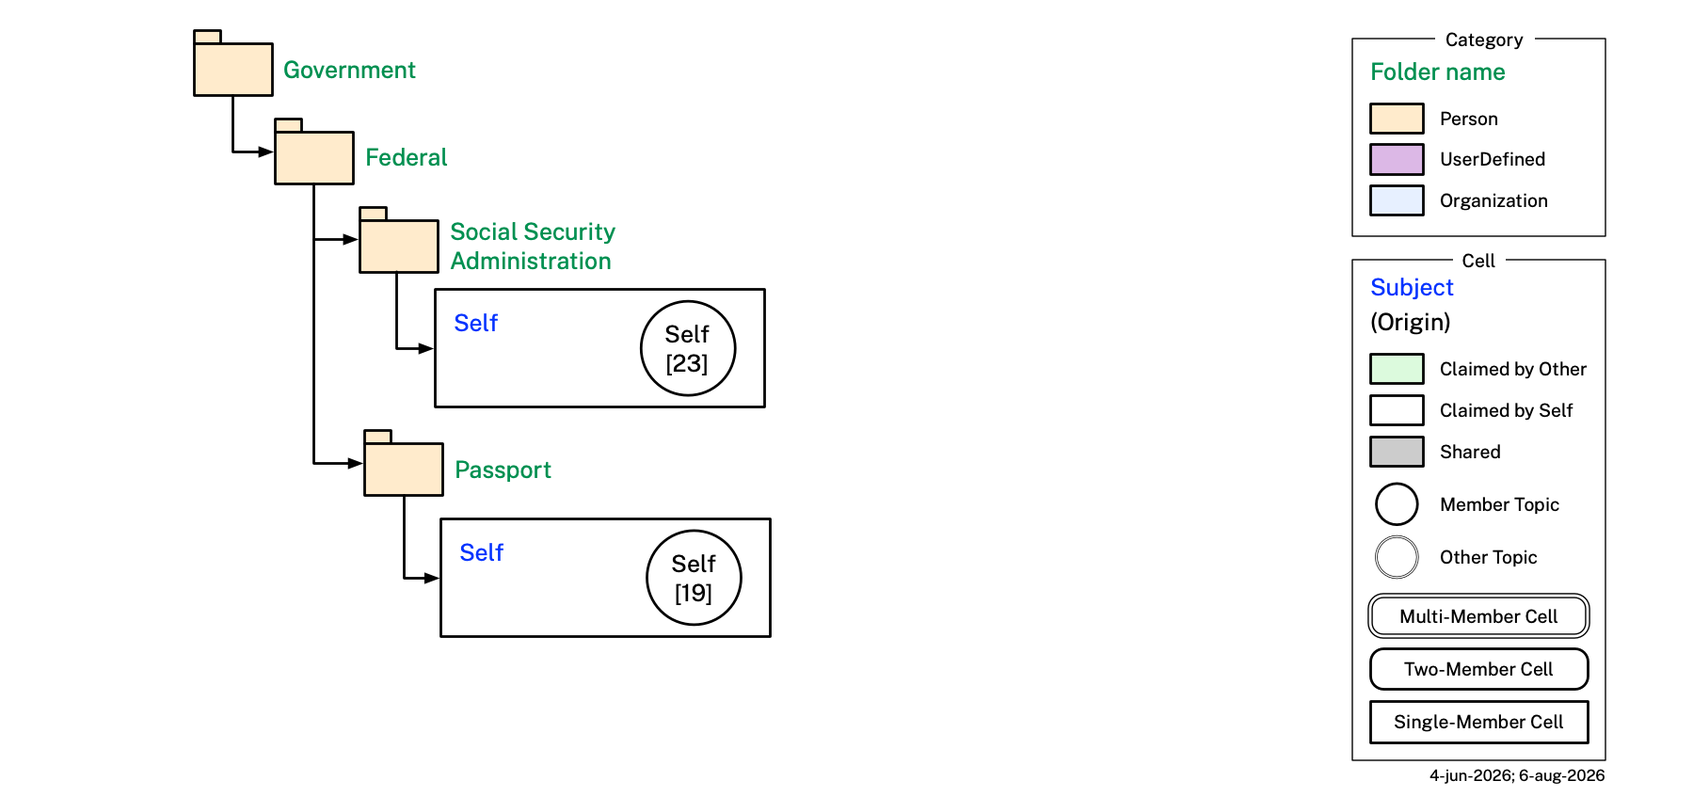
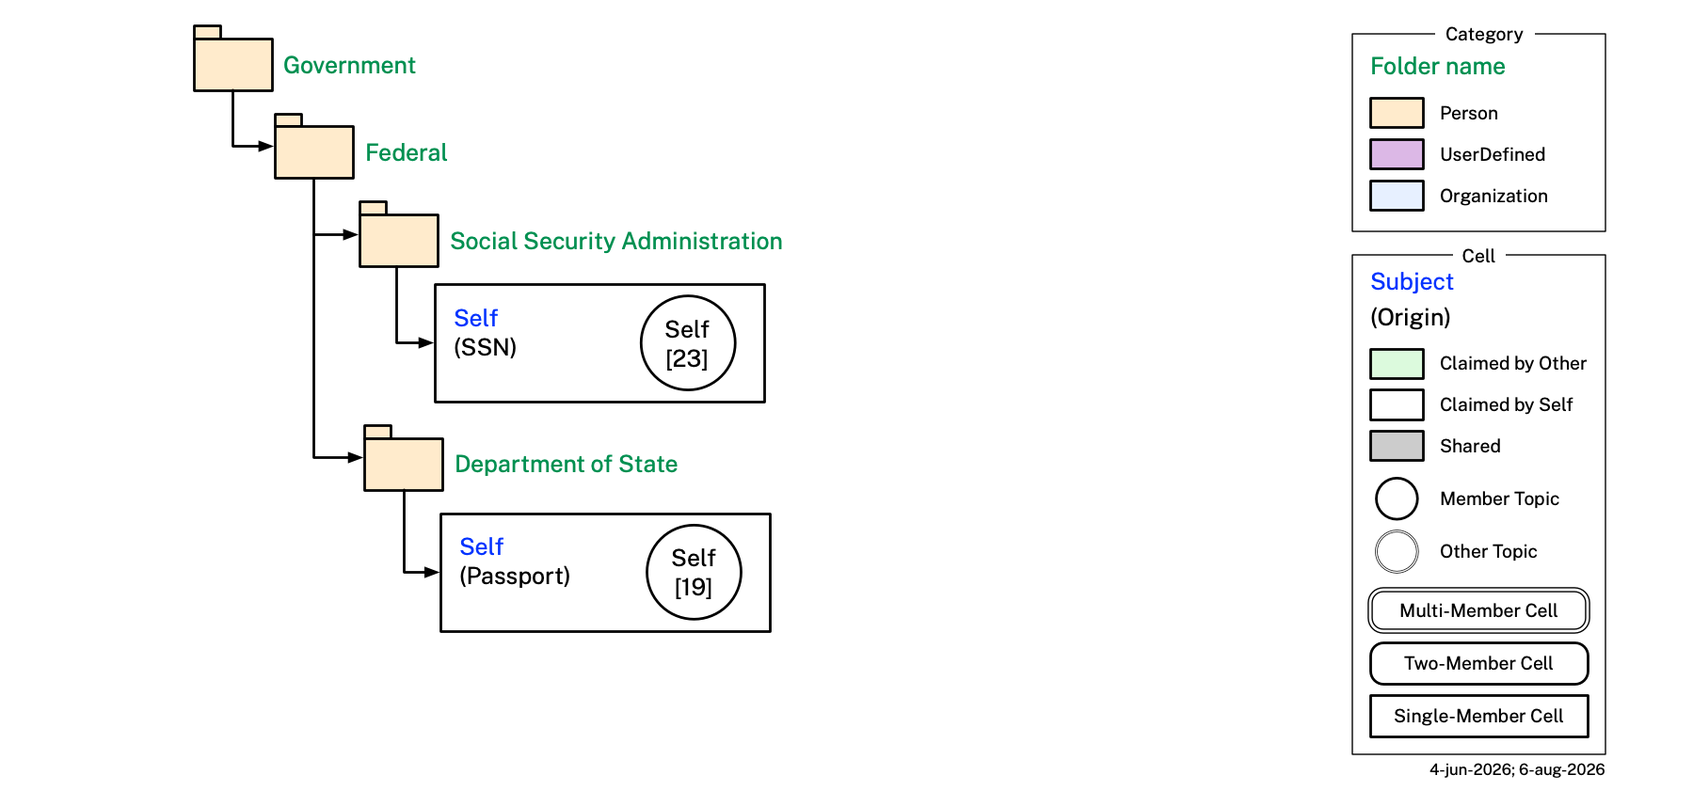
tweak

diff --git a/CLAUDE.md b/CLAUDE.md
@@ -52,14 +52,14 @@ Every topic below is now an embedded section (`mia.topics` entry + `### Topic NN
 | Topic 24 — `example/Cells/Government/State/Texas Vital Records/Texas Vital Records(birth-certificate).databook.md` | Alice's Texas birth certificate — legal names, maiden name |
 | Topic 18 — `example/Cells/Government/Municipality/Paradise/Paradise(residence).databook.md` | Alice's Paradise, CA address — current residence (2025–present) |
 | Topic 13 — `example/Cells/Government/Municipality/Boston/Boston(residence).databook.md` | Alice's Boston, MA address — previous residence (2020–2025) |
-| Topic 23 — `example/Cells/Government/Federal/Social Security Administration/Social Security Administration(ssa).databook.md` | Alice's Social Security Number |
+| Topic 23 — `example/Cells/Government/Federal/Social Security Administration/Social Security Administration(ssn).databook.md` | Alice's Social Security Number |
 | Topic 12 — `example/Cells/People/Others/Bob Johnson/Bob Johnson(others).databook.md` | Alice's 1:1 topic with Bob; social network with Bob as member |
 | Topic 21 — `example/Cells/People/Immediate Family/Paula Walker/Paula Walker(immediate-family).databook.md` | Alice's family topic — social network with Paula Walker as member |
 | Topic 22 — `example/Cells/Ownership/Ownership.databook.md` | Alice's possessions — wallet, health insurance card, SSN card |
 | Topic 20 — `example/Cells/Work/Acme/Employees/Paula Walker/Paula Walker(employee).databook.md` | Alice's Acme employee topic; social network with Paula Walker |
 | Topic 10 — `example/Cells/Work/Acme/Employees/Alice Walker/Alice Walker(employee).databook.md` | Alice's business card (JSContactCard) — name, email, phone, employer, job title |
 | Topic 15 — `example/Cells/Government/State/California DMV/California DMV(drivers-license).databook.md` | Alice's California driver's license — legal name, DOB, DL#, expiry, photo |
-| Topic 19 — `example/Cells/Government/Federal/Passport/Passport.databook.md` | Alice's US passport — legal name, DOB, passport#, issue/expiry, place of birth, gender marker, photo |
+| Topic 19 — `example/Cells/Government/Federal/Department of State/Department of State(passport).databook.md` | Alice's US passport — legal name, DOB, passport#, issue/expiry, place of birth, gender marker, photo |
 | Topic 17 — `example/Cells/People/Immediate Family/Paula Walker/Health & Wellness/Health & Wellness.databook.md` | Paula's physical characteristics — height, eye color, hair color — as recorded by Alice |
 | `example/topics/under-development/paula(fl-birth-cert)alice.ttl` | Paula Walker's Florida Birth Certificate Persona — legal name record (under development) |
 | `example/topics/self.ttl` | `:Self`'s sole type declaration (`rdf:type owl:NamedIndividual, persona:Person`); not `owl:imports`ed anywhere, merged in only for validation |
@@ -101,7 +101,7 @@ Cell-databook filenames follow (there is no separate category-databook file any 
 <local>(<catType>).databook.md  — cell-databook
 ```
 
-`<local>` is an **exact copy of the folder's own name** — verbatim, no kebab-casing, no lowercasing, whatever case/spacing/punctuation the folder itself has (e.g. `Acme`, `Paula Walker`, `ATT`). There is no more `-cell` token: cell-databook is the sole DataBook type in a user's instance tree, so nothing needs to be disambiguated by it. There is also no numeric disambiguator of any kind (no `-2`, `-N`, etc.): a folder holds **at most one** cell-databook, ever — a folder counts as a category folder only when it holds exactly one such matching file, and a folder with no matching cell-databook is simply a plain filesystem folder, not a category folder at all (see [Cell/Category split](#key-architectural-patterns) below for why two cells can never share one folder). `<catType>` is the folder's own category classification, kebab-cased as before (e.g. `Employee` → `employee`, `ImmediateFamily` → `immediate-family`, `SSA` → `ssa` — kebab-casing is acronym-aware: a hyphen is inserted only at a lowercase→uppercase boundary or an uppercase-run→lowercase boundary, so consecutive capitals stay together). If the matched `cat:Category` class's own local name carries a literal `(org)` disambiguator (used only to distinguish it from a same-named Person-side sibling class, e.g. `cat:BankingPayments` vs. `cat:BankingPayments(org)`), that suffix is dropped before kebab-casing — `<catType>` only ever needs to disambiguate a *recurring folder name* by role (e.g. Paula Walker's `Employee` folder vs. her `ImmediateFamily` folder, both Person-side), never the Person/Organization split itself, which is already carried by the folder's own tree position and by `cell:origin`'s actual asserted value, never by the filename. So Citibank's cell — `cell:origin: cat:BankingPayments` (Person-side, since it's the person's own relationship with the bank, not company business filed under `Work`) — is `Citibank(banking-payments).databook.md` with no `-org` marker, and the same bare `banking-payments` `<catType>` would apply identically if a cell's `cell:origin` were instead the org-side `cat:BankingPayments(org)`, since nothing in the filename needs to tell the two apart. A cell-databook's `<catType>` parenthetical is purely a filename-level disambiguator now — category.ttl 1.31.0 deleted `cat:catType` outright (it was only ever asserted on a now-vanished `cat:Folder` individual), so nothing in RDF records it, and nothing reverse-matches the filename to derive it. The one RDF-level echo of a folder's classification is `cell:origin`, read directly from the cell-databook's own explicit `mia.origin` YAML field, not derived from the filename at all. The `id:` local name matches the filename root **once every space is replaced with a hyphen** — spaces are illegal inside a raw Turtle IRI, so e.g. filename `Paula Walker(employee).databook.md` has `id:` local name `Paula-Walker(employee)`; every other character (case, `&`, `.`, etc.) passes through unchanged (Check 9).
+`<local>` is an **exact copy of the folder's own name** — verbatim, no kebab-casing, no lowercasing, whatever case/spacing/punctuation the folder itself has (e.g. `Acme`, `Paula Walker`, `ATT`). There is no more `-cell` token: cell-databook is the sole DataBook type in a user's instance tree, so nothing needs to be disambiguated by it. There is also no numeric disambiguator of any kind (no `-2`, `-N`, etc.): a folder holds **at most one** cell-databook, ever — a folder counts as a category folder only when it holds exactly one such matching file, and a folder with no matching cell-databook is simply a plain filesystem folder, not a category folder at all (see [Cell/Category split](#key-architectural-patterns) below for why two cells can never share one folder). `<catType>` is the folder's own category classification, kebab-cased as before (e.g. `Employee` → `employee`, `ImmediateFamily` → `immediate-family`, `SSN` → `ssn` — kebab-casing is acronym-aware: a hyphen is inserted only at a lowercase→uppercase boundary or an uppercase-run→lowercase boundary, so consecutive capitals stay together). If the matched `cat:Category` class's own local name carries a literal `(org)` disambiguator (used only to distinguish it from a same-named Person-side sibling class, e.g. `cat:BankingPayments` vs. `cat:BankingPayments(org)`), that suffix is dropped before kebab-casing — `<catType>` only ever needs to disambiguate a *recurring folder name* by role (e.g. Paula Walker's `Employee` folder vs. her `ImmediateFamily` folder, both Person-side), never the Person/Organization split itself, which is already carried by the folder's own tree position and by `cell:origin`'s actual asserted value, never by the filename. So Citibank's cell — `cell:origin: cat:BankingPayments` (Person-side, since it's the person's own relationship with the bank, not company business filed under `Work`) — is `Citibank(banking-payments).databook.md` with no `-org` marker, and the same bare `banking-payments` `<catType>` would apply identically if a cell's `cell:origin` were instead the org-side `cat:BankingPayments(org)`, since nothing in the filename needs to tell the two apart. A cell-databook's `<catType>` parenthetical is purely a filename-level disambiguator now — category.ttl 1.31.0 deleted `cat:catType` outright (it was only ever asserted on a now-vanished `cat:Folder` individual), so nothing in RDF records it, and nothing reverse-matches the filename to derive it. The one RDF-level echo of a folder's classification is `cell:origin`, read directly from the cell-databook's own explicit `mia.origin` YAML field, not derived from the filename at all. The `id:` local name matches the filename root **once every space is replaced with a hyphen** — spaces are illegal inside a raw Turtle IRI, so e.g. filename `Paula Walker(employee).databook.md` has `id:` local name `Paula-Walker(employee)`; every other character (case, `&`, `.`, etc.) passes through unchanged (Check 9).
 
 **Compression rule**: if `<local>`, normalized the same acronym-aware way `<catType>` already is, is identical to the kebab-cased `<catType>`, the parenthetical is dropped entirely, since it's pure redundancy — `<local>.databook.md` — rather than `<local>(<local>).databook.md`. For example `cat:Work`'s folder is named `Work`, and its own `catType` (`Work`) also kebab-cases to `work` — the same string — so its file is `Work.databook.md`, not `Work(work).databook.md`. This applies on a normalized-equal match, not raw string identity (since `<local>` is no longer pre-kebab-cased): folder `Health & Wellness`'s catType `HealthWellness` both normalize to `health-wellness`, so it compresses too, to `Health & Wellness.databook.md`. `Acme(organization).databook.md` keeps its parenthetical since normalized `Acme` (`acme`) ≠ `organization`. Most of the top-level tree scaffold compresses this way (`Work`, `People`, `Others`, `Companies`, `Finances`, `Government`, `State`, `Municipality`, `Federal`, `Ownership`, `Affiliations`, `Employees`, `Immediate Family`, `Health & Wellness`, `Medical`, `Banking & Payments`), since these folders' own name simply *is* their category (there's no more-specific person/organization/thing filed there directly — that's one level further down, e.g. `Boston Hub Society(affiliations)` or `Acme(organization)`, which don't compress). The same rule applies identically to a topic's `(<containing-cell>)` segment (see [Topic ID Naming Convention](#topic-id-naming-convention) below), since that segment is always derived directly from the (possibly-compressed) cell filename's `id:` form (space-hyphenated, not the raw filename — topic ids are IRIs too).
 
@@ -119,7 +119,7 @@ This replaced an earlier convention that disambiguated using the folder's *paren
 |---------|---------|
 | `<subject>` | The entity the Persona is about. Use `self` when the subject is the Mia user's own `p:Person` (`:Self`); otherwise use the full hyphenated lowercase name (e.g. `paula-walker`, `bob-johnson`, `bhs-group`). (In the ontology, `topic:subject`'s range is any resource IRI — every subject value in this example happens to be a `p:Person`/`g:Group`/`o:Organization`, but that's a convention of the example, not an ontology requirement.) |
 | `<claimant>` | Who claimed the data. Use `self` when the claimant is `:Self`; use the full hyphenated lowercase name for other claimants (e.g. `bob-johnson`, `citibank`); use the literal `members` for `cell:ThreePlusMember` topics where any permitted member may write. |
-| `(<containing-cell>)` | The readable local name of the cell-databook this `mia.topics` entry lives inside — i.e., the folder (category) that cell-databook physically lives in, since a folder's tree position is purely a filesystem fact with no RDF individual of its own (category.ttl 1.31.0 deleted `cat:Folder` and its subclasses outright). Ordinarily this is two parenthetical segments — the category's local name, then its own `catType` (kebab-cased) — but per the [Category/Cell DataBook Filename Convention](#categorycell-databook-filename-convention) below's compression rule, when the cell's own local name is identical to its `catType` kebab-cased, the cell's filename (and so this segment) collapses to a single bare parenthetical instead of the doubled-up form. Two-segment examples: `(Bob-Johnson)(others)`, `(Boston-Hub-Society)(affiliations)`, `(Paula-Walker)(immediate-family)`, `(Citibank)(banking-payments)`, `(Paula-Walker)(employee)` (Paula's *Acme employee* cell — same local name as her Immediate Family cell above, disambiguated only by the differing `catType`). Compressed, single-segment examples: `(Ownership)` (topic #22 — a top-level category whose local name and `catType` happen to coincide), `(Passport)` (topic #19), `(Health-&-Wellness)` (topic #17). |
+| `(<containing-cell>)` | The readable local name of the cell-databook this `mia.topics` entry lives inside — i.e., the folder (category) that cell-databook physically lives in, since a folder's tree position is purely a filesystem fact with no RDF individual of its own (category.ttl 1.31.0 deleted `cat:Folder` and its subclasses outright). Ordinarily this is two parenthetical segments — the category's local name, then its own `catType` (kebab-cased) — but per the [Category/Cell DataBook Filename Convention](#categorycell-databook-filename-convention) below's compression rule, when the cell's own local name is identical to its `catType` kebab-cased, the cell's filename (and so this segment) collapses to a single bare parenthetical instead of the doubled-up form. Two-segment examples: `(Bob-Johnson)(others)`, `(Boston-Hub-Society)(affiliations)`, `(Paula-Walker)(immediate-family)`, `(Citibank)(banking-payments)`, `(Paula-Walker)(employee)` (Paula's *Acme employee* cell — same local name as her Immediate Family cell above, disambiguated only by the differing `catType`). Compressed, single-segment examples: `(Ownership)` (topic #22 — a top-level category whose local name and `catType` happen to coincide), `(Health-&-Wellness)` (topic #17). |
 | `(<NN>)` | Zero-padded two-digit topic number in parentheses, matching the diagram label. |
 
 **Exception — `cell:ThreePlusMember` topics**: A group topic (`memberCount: ThreePlusMember`) has no single claimant — any permitted member can write to it and changes replicate to all members. The `<claimant>` segment is the literal `members` rather than an individual name. Example id local-name: `bhs-group.members(Boston-Hub-Society)(affiliations)(01)` — about BHS Group, containing cell "Boston-Hub-Society(affiliations)", claimed by the group's members collectively.

diff --git a/EXAMPLE.md b/EXAMPLE.md
@@ -95,11 +95,11 @@ The topics in the table below are *about* Alice and claimed *by* Alice. The "Cel
 | 16 | [Google(companies).databook.md](<example/Cells/Companies/Google/Google(companies).databook.md#topic-16>)               | Companies    | Gmail address                                                    | [view](example/topics/images/self.self(Google)(companies)(16).png) |
 | 17 | [Health & Wellness.databook.md](<example/Cells/People/Immediate Family/Paula Walker/Health & Wellness/Health & Wellness.databook.md#topic-17>)                 | Health & Wellness     | Paula's physical body — height (68 in.), blue eyes, grey hair — as recorded by Alice            | [view](example/topics/images/paula-walker.self(Health-&-Wellness)(17).png) |
 | 18 | [Paradise(residence).databook.md](<example/Cells/Government/Municipality/Paradise/Paradise(residence).databook.md#topic-18>)           | Municipality | Current address — Paradise, CA (2025–present)                    | [view](example/topics/images/self.self(Paradise)(residence)(18).png) |
-| 19 | [Passport.databook.md](<example/Cells/Government/Federal/Passport/Passport.databook.md#topic-19>)             | Federal    | US passport — legal name, DOB, passport#, issue/expiry, place of birth, gender marker, photo | [view](example/topics/images/self.self(Passport)(19).png) |
+| 19 | [Department of State(passport).databook.md](<example/Cells/Government/Federal/Department of State/Department of State(passport).databook.md#topic-19>)             | Federal    | US passport — legal name, DOB, passport#, issue/expiry, place of birth, gender marker, photo | [view](example/topics/images/self.self(Department-of-State)(passport)(19).png) |
 | 20 | [Paula Walker(employee).databook.md](<example/Cells/Work/Acme/Employees/Paula Walker/Paula Walker(employee).databook.md#topic-20>)                   | Employee     | Acme employee topic; company email; works with Paula           | [view](example/topics/images/self.self(Paula-Walker)(employee)(20).png)|
 | 21 | [Paula Walker(immediate-family).databook.md](<example/Cells/People/Immediate Family/Paula Walker/Paula Walker(immediate-family).databook.md#topic-21>)   | Immediate Family       | Alice as a family member                       | [view](example/topics/images/self.self(Paula-Walker)(immediate-family)(21).png) |
 | 22 | [Ownership.databook.md](<example/Cells/Ownership/Ownership.databook.md#topic-22>)     | Ownership  | Wallet (driver's license + payment card); health ins., SSN card  | [view](example/topics/images/self.self(Ownership)(22).png) |
-| 23 | [Social Security Administration(ssa).databook.md](<example/Cells/Government/Federal/Social Security Administration/Social Security Administration(ssa).databook.md#topic-23>)                     | Federal      | Social security number (SSN)                                     | [view](example/topics/images/self.self(Social-Security-Administration)(ssa)(23).png) |
+| 23 | [Social Security Administration(ssn).databook.md](<example/Cells/Government/Federal/Social Security Administration/Social Security Administration(ssn).databook.md#topic-23>)                     | Federal      | Social security number (SSN)                                     | [view](example/topics/images/self.self(Social-Security-Administration)(ssn)(23).png) |
 | 24 | [Texas Vital Records(birth-certificate).databook.md](<example/Cells/Government/State/Texas Vital Records/Texas Vital Records(birth-certificate).databook.md#topic-24>) | State        | Legal names, maiden name                                         | [view](example/topics/images/self.self(Texas-Vital-Records)(birth-certificate)(24).png) |
 | 29 | [Fred Flintstone(others).databook.md](<example/Cells/People/Others/Fred Flintstone/Fred Flintstone(others).databook.md#topic-29>)                     | Others       | Alice's 1:1 topic with Fred; social network with Fred as member  | [view](example/topics/images/self.self(Fred-Flintstone)(others)(29).png) |
 
@@ -261,8 +261,8 @@ python3 extract-topic.py "example/Cells/Government/State/California DMV/Californ
 riot --output=turtle /tmp/mia-base.ttl /tmp/data-dl-raw.ttl 2>/dev/null > /tmp/data-dl.ttl
 shacl validate --shapes /tmp/shapes-cell-templates.ttl --data /tmp/data-dl.ttl --text
 
-# Passport — self.self(Passport)(19)
-python3 extract-topic.py "example/Cells/Government/Federal/Passport/Passport.databook.md" "self.self(Passport)(19)" > /tmp/data-passport-raw.ttl
+# Passport — self.self(Department-of-State)(passport)(19)
+python3 extract-topic.py "example/Cells/Government/Federal/Department of State/Department of State(passport).databook.md" "self.self(Department-of-State)(passport)(19)" > /tmp/data-passport-raw.ttl
 riot --output=turtle /tmp/mia-base.ttl /tmp/data-passport-raw.ttl 2>/dev/null > /tmp/data-passport.ttl
 shacl validate --shapes /tmp/shapes-cell-templates.ttl --data /tmp/data-passport.ttl --text
 

diff --git a/README.md b/README.md
@@ -103,11 +103,11 @@ The user is free to construct folders not included in the predefined categories.
 1. **Information** (`cat:Information`) — general knowledge selected by you, web links, documents, images.
 1. **Government** (`cat:Government`) — government-issued credentials, tax records, and civic relationships.
     - **Federal** (`cat:Federal`) — federal government topic (e.g. passport, federal tax records).
-        - **SSA** (`cat:SSA`) — social security number issued by the federal Social Security. Administration.
+        - **SSN** (`cat:SSN`) — social security number issued by the federal Social Security Administration.
         - **Passport** (`cat:Passport`) — passport issued by the Department of State.
     - **State** (`cat:State`) — state government topic (e.g. driver's license, state tax records).
         - **Birth Certificate** (`cat:BirthCertificate`) — a birth certificate issued by a state agency that issues and holds these records.
-        - **Drivers License** (`cat:DriversLicense`) — a driver's license issued by a ttate agency that issues and holds these records.
+        - **Drivers License** (`cat:DriversLicense`) — a driver's license issued by a state agency that issues and holds these records.
     - **Municipality** (`cat:Municipality`) — municipal government topic (e.g. local permits, library card).
         - **Residence** (`cat:Residence`) — a place a person has lived, current or past.
 1. **Companies** (`cat:Companies`) — a catch-all for your relationships with companies and organizations that provide services and/or products to you that are not included in more specific categories such `Cat:Finances`, `cat:HealthWellness`, `cat:Home`, `cat:Food`, etc.
@@ -151,7 +151,7 @@ A category folder may be *user-defined* or *category-defined*. They can be disti
 
 #### Examples of Category Folders
 
-In the center of the diagram below is a three level snippet of the user's category folder tree. 
+In the center of the diagram below is a three level snippet of the user's category folders. 
 
 <p align="center"><img src="images/folder-mapping.png" alt="Cells, categories, and topics"></p>
 

diff --git a/example/Cells/Government/Federal/Social Security Administration/Social Security Administration(ssn).databook.md b/example/Cells/Government/Federal/Social Security Administration/Social Security Administration(ssn).databook.md
@@ -1,19 +1,19 @@
 ---
-id: http://www.example.org/mia/categories/Social-Security-Administration(ssa)
+id: http://www.example.org/mia/categories/Social-Security-Administration(ssn)
 title: "Social Security Administration"
 type: cell-databook
-version: 1.1.0
+version: 1.2.0
 created: 2026-07-10
 description: >
-  Cell DataBook of category "Social Security Administration" (cell:origin: cat:SSA). Content may include topics/folder/note links, and may carry one or two required subject values.
+  Cell DataBook of category "Social Security Administration" (cell:origin: cat:SSN). Content may include topics/folder/note links, and may carry one or two required subject values.
 mia:
-  origin: "cat:SSA"
+  origin: "cat:SSN"
   creator: ":Self"
   memberCount: "cell:OneMember"
   subject: ":Self"
-  memberTopics: "https://www.example.org/mia/topics/self.self(Social-Security-Administration)(ssa)(23)"
+  memberTopics: "https://www.example.org/mia/topics/self.self(Social-Security-Administration)(ssn)(23)"
   topics:
-    - id: "https://www.example.org/mia/topics/self.self(Social-Security-Administration)(ssa)(23)"
+    - id: "https://www.example.org/mia/topics/self.self(Social-Security-Administration)(ssn)(23)"
       title: "About Alice Walker in the Federal cell as claimed by Alice Walker"
       claimant: ":Self"
       subject: ":Self"
@@ -41,7 +41,7 @@ This topic captures Alice Walker's Social Security Administration record. Alice 
 
 ```turtle
 <!-- databook:id: alice-ssa-topic-graph -->
-<!-- databook:graph: https://www.example.org/mia/topics/self.self(Social-Security-Administration)(ssa)(23)#graph -->
+<!-- databook:graph: https://www.example.org/mia/topics/self.self(Social-Security-Administration)(ssn)(23)#graph -->
 @prefix : <http://www.example.org/mia#> .
 @prefix persona: <http://mee.foundation/ontologies/persona#> .
 @prefix cco: <https://purl.org/cco/> .

diff --git a/example/Cells/Government/Federal/Department of State/Department of State(passport).databook.md b/example/Cells/Government/Federal/Department of State/Department of State(passport).databook.md
@@ -1,19 +1,19 @@
 ---
-id: http://www.example.org/mia/categories/Passport
-title: "Passport"
+id: http://www.example.org/mia/categories/Department-of-State(passport)
+title: "Department of State"
 type: cell-databook
-version: 1.1.0
+version: 1.2.0
 created: 2026-07-10
 description: >
-  Cell DataBook of category "Passport" (cell:origin: cat:Passport). Content may include topics/folder/note links, and may carry one or two required subject values.
+  Cell DataBook of category "Department of State" (cell:origin: cat:Passport). Content may include topics/folder/note links, and may carry one or two required subject values.
 mia:
   origin: "cat:Passport"
   creator: ":Self"
   memberCount: "cell:OneMember"
   subject: ":Self"
-  memberTopics: "https://www.example.org/mia/topics/self.self(Passport)(19)"
+  memberTopics: "https://www.example.org/mia/topics/self.self(Department-of-State)(passport)(19)"
   topics:
-    - id: "https://www.example.org/mia/topics/self.self(Passport)(19)"
+    - id: "https://www.example.org/mia/topics/self.self(Department-of-State)(passport)(19)"
       title: "About Alice Walker in the Federal cell as claimed by Alice Walker"
       claimant: ":Self"
       subject: ":Self"
@@ -44,7 +44,7 @@ This topic captures Alice Walker's US passport identity data. Alice self-enters 
 
 ```turtle
 <!-- databook:id: alice-passport-topic-graph -->
-<!-- databook:graph: https://www.example.org/mia/topics/self.self(Passport)(19)#graph -->
+<!-- databook:graph: https://www.example.org/mia/topics/self.self(Department-of-State)(passport)(19)#graph -->
 @prefix : <http://www.example.org/mia#> .
 @prefix persona: <http://mee.foundation/ontologies/persona#> .
 @prefix cco: <https://purl.org/cco/> .
